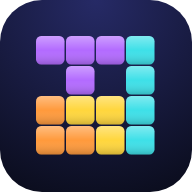
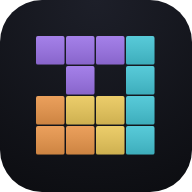
Refine visual style: flatter blocks, muted palette, typographic UI
Claude-Session: https://claude.ai/code/session_01THnj6gfweMZGaJmHyJPJxv

diff --git a/style.css b/style.css
@@ -1,15 +1,15 @@
 :root {
   color-scheme: dark;
-  --bg: #0a0c1b;
-  --panel: rgba(255, 255, 255, 0.035);
+  --bg: #0c0d11;
+  --panel: rgba(255, 255, 255, 0.02);
   --line: rgba(255, 255, 255, 0.08);
-  --text: #eef0ff;
-  --muted: #8b91bb;
-  --accent: #8a7dff;
-  --accent2: #3ee0e8;
+  --text: #ecedf2;
+  --muted: #7c7f8e;
+  --accent: #ecedf2;
+  --accent2: #45c4d4;
   --c: 30px;
   --gap: calc(var(--c) * 0.35);
-  --radius: calc(var(--c) * 0.28);
+  --radius: 6px;
 }
 
 * { box-sizing: border-box; margin: 0; padding: 0; }
@@ -30,9 +30,7 @@ html, body {
 
 body {
   background:
-    radial-gradient(110% 70% at 50% -15%, #20245a 0%, transparent 60%),
-    radial-gradient(70% 55% at 100% 110%, #2b1745 0%, transparent 65%),
-    radial-gradient(60% 50% at 0% 100%, #0f2a3d 0%, transparent 65%),
+    radial-gradient(90% 60% at 50% 0%, #171922 0%, transparent 70%),
     var(--bg);
 }
 
@@ -92,8 +90,8 @@ button { font: inherit; color: inherit; border: 0; background: none; cursor: poi
 
 .panel h2 {
   font-size: max(10px, calc(var(--c) * 0.3));
-  font-weight: 700;
-  letter-spacing: 0.16em;
+  font-weight: 600;
+  letter-spacing: 0.2em;
   text-transform: uppercase;
   color: var(--muted);
   margin-bottom: calc(var(--c) * 0.2);
@@ -114,16 +112,11 @@ canvas { display: block; }
 }
 .stat .v {
   font-size: max(15px, calc(var(--c) * 0.62));
-  font-weight: 700;
+  font-weight: 500;
   font-variant-numeric: tabular-nums;
-  letter-spacing: -0.01em;
+  letter-spacing: 0.01em;
 }
-.stat.score .v {
-  background: linear-gradient(90deg, #fff, #c9c4ff);
-  -webkit-background-clip: text;
-  background-clip: text;
-  color: transparent;
-}
+.stat.score .v { color: #fff; }
 
 #game.side #stats { padding-bottom: calc(var(--c) * 1.4); }
 #game.side #pause { position: absolute; left: calc(var(--c) * 0.2); bottom: calc(var(--c) * 0.2); }
@@ -157,20 +150,15 @@ canvas { display: block; }
 #board-wrap {
   position: relative;
   border: 1px solid rgba(255, 255, 255, 0.1);
-  border-radius: calc(var(--radius) * 0.6);
-  background: rgba(6, 8, 20, 0.72);
-  box-shadow:
-    0 0 0 1px rgba(0, 0, 0, 0.4),
-    0 20px 60px -20px rgba(0, 0, 0, 0.8),
-    0 0 80px -30px rgba(138, 125, 255, 0.45);
+  border-radius: 3px;
+  background: #07080b;
+  box-shadow: 0 24px 60px -24px rgba(0, 0, 0, 0.9);
   overflow: hidden;
   transition: box-shadow 0.4s;
 }
 #board-wrap.danger {
-  box-shadow:
-    0 0 0 1px rgba(0, 0, 0, 0.4),
-    0 20px 60px -20px rgba(0, 0, 0, 0.8),
-    0 0 70px -20px rgba(255, 70, 100, 0.65);
+  border-color: rgba(226, 87, 104, 0.55);
+  box-shadow: 0 24px 60px -24px rgba(0, 0, 0, 0.9), 0 0 40px -18px rgba(226, 87, 104, 0.6);
 }
 #board-wrap.bump { animation: bump 0.14s ease-out; }
 @keyframes bump {
@@ -184,19 +172,18 @@ canvas { display: block; }
   left: 0; right: 0; top: 30%;
   text-align: center;
   pointer-events: none;
-  font-weight: 800;
-  letter-spacing: 0.06em;
+  font-weight: 600;
+  letter-spacing: 0.22em;
   text-transform: uppercase;
-  text-shadow: 0 2px 18px rgba(0, 0, 0, 0.8);
+  text-shadow: 0 2px 16px rgba(0, 0, 0, 0.9);
   opacity: 0;
 }
 #popup.go { animation: pop 1.1s cubic-bezier(.2, .8, .2, 1) forwards; }
-#popup .big { display: block; font-size: calc(var(--c) * 0.85); background: linear-gradient(90deg, #fff, #b9b0ff 50%, #7fe9ef); -webkit-background-clip: text; background-clip: text; color: transparent; }
-#popup .small { display: block; font-size: calc(var(--c) * 0.42); color: #ffd36b; margin-top: 2px; }
+#popup .big { display: block; font-size: calc(var(--c) * 0.62); color: #fff; }
+#popup .small { display: block; font-size: calc(var(--c) * 0.32); color: var(--muted); margin-top: 4px; letter-spacing: 0.18em; }
 @keyframes pop {
-  0% { opacity: 0; transform: scale(0.7); }
-  15% { opacity: 1; transform: scale(1.06); }
-  25% { transform: scale(1); }
+  0% { opacity: 0; transform: translateY(calc(var(--c) * 0.3)); }
+  15% { opacity: 1; transform: translateY(0); }
   75% { opacity: 1; }
   100% { opacity: 0; transform: translateY(calc(var(--c) * -1.2)); }
 }
@@ -212,14 +199,14 @@ canvas { display: block; }
 #pad[hidden] { display: none; }
 #pad button {
   height: var(--pad-h, 64px);
-  border-radius: 16px;
-  background: rgba(255, 255, 255, 0.06);
+  border-radius: 10px;
+  background: rgba(255, 255, 255, 0.04);
   border: 1px solid var(--line);
   display: grid;
   place-items: center;
 }
-#pad button.on { background: rgba(138, 125, 255, 0.3); }
-#pad svg { width: 26px; height: 26px; fill: none; stroke: currentColor; stroke-width: 2.4; stroke-linecap: round; stroke-linejoin: round; }
+#pad button.on { background: rgba(255, 255, 255, 0.16); }
+#pad svg { width: 24px; height: 24px; fill: none; stroke: currentColor; stroke-width: 1.8; stroke-linecap: round; stroke-linejoin: round; }
 
 /* ---------- Overlay ---------- */
 #overlay {
@@ -228,7 +215,7 @@ canvas { display: block; }
   display: grid;
   place-items: center;
   padding: 20px;
-  background: rgba(6, 7, 18, 0.55);
+  background: rgba(8, 9, 12, 0.6);
   -webkit-backdrop-filter: blur(10px);
   backdrop-filter: blur(10px);
   opacity: 0;
@@ -242,9 +229,9 @@ canvas { display: block; }
   display: none;
   width: min(360px, 100%);
   padding: 28px 24px 22px;
-  border-radius: 22px;
-  background: linear-gradient(180deg, rgba(30, 33, 70, 0.92), rgba(16, 18, 40, 0.94));
-  border: 1px solid rgba(255, 255, 255, 0.1);
+  border-radius: 14px;
+  background: rgba(20, 21, 27, 0.94);
+  border: 1px solid rgba(255, 255, 255, 0.08);
   box-shadow: 0 30px 80px -20px rgba(0, 0, 0, 0.8);
   text-align: center;
   flex-direction: column;
@@ -254,46 +241,35 @@ canvas { display: block; }
 .card.show { display: flex; }
 @keyframes rise { from { opacity: 0; transform: translateY(12px) scale(0.98); } }
 
-.logo { display: flex; justify-content: center; gap: 6px; margin-bottom: 4px; }
-.logo i {
-  font-style: normal;
+.logo {
   font-size: 30px;
-  font-weight: 900;
-  width: 42px; height: 42px;
-  display: grid; place-items: center;
-  border-radius: 9px;
-  color: rgba(0, 0, 0, 0.55);
-  box-shadow: inset 0 3px 0 rgba(255, 255, 255, 0.35), inset 0 -3px 0 rgba(0, 0, 0, 0.18);
+  font-weight: 300;
+  letter-spacing: 0.42em;
+  text-indent: 0.42em;
+  text-transform: uppercase;
+  margin: 4px 0 2px;
 }
-.logo i:nth-child(1) { background: #ff5470; }
-.logo i:nth-child(2) { background: #ff9a3c; }
-.logo i:nth-child(3) { background: #ffd63d; }
-.logo i:nth-child(4) { background: #5fe07a; }
-.logo i:nth-child(5) { background: #3ee0e8; }
-.logo i:nth-child(6) { background: #b36bff; }
 
-.card h2 { font-size: 26px; font-weight: 800; letter-spacing: 0.02em; }
+.card h2 { font-size: 20px; font-weight: 400; letter-spacing: 0.3em; text-indent: 0.3em; text-transform: uppercase; }
 .sub { color: var(--muted); font-size: 15px; }
 .sub b { color: var(--text); font-variant-numeric: tabular-nums; }
-.final { font-size: 44px; font-weight: 800; font-variant-numeric: tabular-nums; }
-.new-best { color: #ffd36b; font-weight: 700; }
+.final { font-size: 44px; font-weight: 300; font-variant-numeric: tabular-nums; }
+.new-best { color: var(--text); font-weight: 600; letter-spacing: 0.16em; text-transform: uppercase; font-size: 13px; }
 
 .btn {
   padding: 13px 18px;
-  border-radius: 14px;
-  font-weight: 700;
-  font-size: 17px;
-  background: rgba(255, 255, 255, 0.07);
+  border-radius: 10px;
+  font-weight: 600;
+  font-size: 16px;
+  letter-spacing: 0.02em;
+  background: rgba(255, 255, 255, 0.05);
   border: 1px solid var(--line);
   transition: transform 0.1s, background 0.15s;
 }
 .btn:hover { background: rgba(255, 255, 255, 0.12); }
 .btn:active { transform: scale(0.97); }
-.btn.primary {
-  background: linear-gradient(135deg, #8a7dff, #5b8cff);
-  border-color: transparent;
-  box-shadow: 0 10px 30px -10px rgba(120, 110, 255, 0.8);
-}
+.btn.primary { background: #ecedf2; color: #0c0d11; border-color: transparent; }
+.btn.primary:hover { background: #fff; }
 .btn.ghost { background: none; border-color: transparent; color: var(--muted); padding: 8px; font-size: 15px; }
 
 .settings { display: grid; gap: 2px; margin: 4px 0; text-align: left; }
@@ -323,7 +299,8 @@ canvas { display: block; }
   background: #fff;
   transition: transform 0.2s;
 }
-.toggle input:checked + .sw { background: #7d72ff; }
+.toggle input:checked + .sw { background: #ecedf2; }
+.toggle input:checked + .sw::after { background: #0c0d11; }
 .toggle input:checked + .sw::after { transform: translateX(18px); }
 .toggle input:focus-visible + .sw { outline: 2px solid var(--accent2); outline-offset: 2px; }
 

diff --git a/game.js b/game.js
@@ -3,7 +3,7 @@
   // ---------- Constants ----------
   const COLS = 10, ROWS = 20, BUF = 3, H = ROWS + BUF;
   const TYPES = 'IJLOSTZ';
-  const COLORS = { I: '#3ee0e8', J: '#4f7bff', L: '#ff9a3c', O: '#ffd63d', S: '#5fe07a', T: '#b36bff', Z: '#ff5470' };
+  const COLORS = { I: '#45c4d4', J: '#5672e8', L: '#e8954a', O: '#e9c75a', S: '#62bf78', T: '#9a72e6', Z: '#e25768' };
   const SHAPES = {
     I: [[0, 0, 0, 0], [1, 1, 1, 1], [0, 0, 0, 0], [0, 0, 0, 0]],
     J: [[1, 0, 0], [1, 1, 1], [0, 0, 0]],
@@ -378,18 +378,20 @@
   }
 
   function drawBlock(ctx, x, y, s, color) {
-    const i = Math.max(0.5, s * 0.045), w = s - 2 * i, r = s * 0.17;
+    const gap = Math.max(1, s * 0.06), w = s - gap, x0 = x + gap / 2, y0 = y + gap / 2;
+    const r = Math.min(3, s * 0.08), edge = Math.max(1, s * 0.07);
     const g = ctx.createLinearGradient(x, y, x, y + s);
-    g.addColorStop(0, mix(color, 0.3));
-    g.addColorStop(0.5, color);
-    g.addColorStop(1, mix(color, -0.22));
+    g.addColorStop(0, mix(color, 0.1));
+    g.addColorStop(1, mix(color, -0.12));
     ctx.fillStyle = g;
-    rr(ctx, x + i, y + i, w, w, r); ctx.fill();
-    ctx.fillStyle = 'rgba(255,255,255,0.28)';
-    rr(ctx, x + i + s * 0.14, y + i + s * 0.09, w - s * 0.28, s * 0.16, s * 0.08); ctx.fill();
-    ctx.strokeStyle = 'rgba(255,255,255,0.16)';
-    ctx.lineWidth = Math.max(1, s * 0.035);
-    rr(ctx, x + i + ctx.lineWidth / 2, y + i + ctx.lineWidth / 2, w - ctx.lineWidth, w - ctx.lineWidth, r); ctx.stroke();
+    rr(ctx, x0, y0, w, w, r); ctx.fill();
+    ctx.save();
+    rr(ctx, x0, y0, w, w, r); ctx.clip();
+    ctx.fillStyle = 'rgba(255,255,255,0.22)';
+    ctx.fillRect(x0, y0, w, edge);
+    ctx.fillStyle = 'rgba(0,0,0,0.22)';
+    ctx.fillRect(x0, y0 + w - edge, w, edge);
+    ctx.restore();
   }
 
   function makeSprites() {
@@ -399,17 +401,19 @@
       const cv = document.createElement('canvas');
       cv.width = cv.height = px;
       const ctx = cv.getContext('2d');
-      drawBlock(ctx, 0, 0, px, t === 'X' ? '#5a5f80' : COLORS[t]);
+      drawBlock(ctx, 0, 0, px, t === 'X' ? '#3a3d4e' : COLORS[t]);
       sprites[t] = cv;
     }
     bgCanvas = document.createElement('canvas');
     bgCanvas.width = Math.round(COLS * c * dpr); bgCanvas.height = Math.round(ROWS * c * dpr);
     const g = bgCanvas.getContext('2d');
     g.scale(dpr, dpr);
-    g.fillStyle = 'rgba(255,255,255,0.028)';
-    for (let y = 0; y < ROWS; y++) for (let x = 0; x < COLS; x++) {
-      rr(g, x * c + c * 0.08, y * c + c * 0.08, c * 0.84, c * 0.84, c * 0.14); g.fill();
-    }
+    g.strokeStyle = 'rgba(255,255,255,0.045)';
+    g.lineWidth = 1 / dpr;
+    g.beginPath();
+    for (let x = 1; x < COLS; x++) { g.moveTo(x * c, 0); g.lineTo(x * c, ROWS * c); }
+    for (let y = 1; y < ROWS; y++) { g.moveTo(0, y * c); g.lineTo(COLS * c, y * c); }
+    g.stroke();
   }
 
   function setCanvas(cv, ctx, w, h) {
@@ -447,7 +451,7 @@
         ctx.drawImage(sprites[grey ? 'X' : v], x * c, (y - BUF) * c, c, c);
       }
       if (isClearing) {
-        ctx.fillStyle = `rgba(255,255,255,${0.55 * (1 - clearP)})`;
+        ctx.fillStyle = `rgba(255,255,255,${0.35 * (1 - clearP)})`;
         ctx.fillRect(0, (y - BUF) * c, W, c);
       }
     }
@@ -458,13 +462,15 @@
       if (settings.ghost) {
         const gy = ghostY(), col = COLORS[cur.t];
         if (gy !== cur.y) {
-          ctx.lineWidth = Math.max(1, c * 0.06);
-          ctx.strokeStyle = rgba(col, 0.55);
-          ctx.fillStyle = rgba(col, 0.09);
+          ctx.lineWidth = Math.max(1, Math.round(c * 0.05));
+          ctx.strokeStyle = rgba(col, 0.5);
+          ctx.fillStyle = rgba(col, 0.07);
+          const lw = ctx.lineWidth;
           for (const [cx, cy] of cells) {
             const yy = gy + cy - BUF; if (yy < 0) continue;
-            rr(ctx, (cur.x + cx) * c + c * 0.1, yy * c + c * 0.1, c * 0.8, c * 0.8, c * 0.14);
-            ctx.fill(); ctx.stroke();
+            const px = (cur.x + cx) * c, py = yy * c, pad = c * 0.03 + lw / 2;
+            ctx.fillRect(px + pad, py + pad, c - 2 * pad, c - 2 * pad);
+            ctx.strokeRect(px + pad, py + pad, c - 2 * pad, c - 2 * pad);
           }
         }
       }
@@ -482,26 +488,24 @@
       ctx.fillStyle = `rgba(255,255,255,${0.5 * (1 - f.t / 160)})`;
       for (const [x, y] of f.cells) {
         if (y < BUF) continue;
-        rr(ctx, x * c + c * 0.05, (y - BUF) * c + c * 0.05, c * 0.9, c * 0.9, c * 0.17); ctx.fill();
+        ctx.fillRect(x * c + c * 0.03, (y - BUF) * c + c * 0.03, c * 0.94, c * 0.94);
       }
     }
   }
 
-  function drawPiece(ctx, t, cx, cy, s, alpha = 1) {
+  function drawPiece(ctx, t, cx, cy, s, dim = false) {
     const cells = CELLS[t][0];
     const xs = cells.map(p => p[0]), ys = cells.map(p => p[1]);
     const minX = Math.min(...xs), maxX = Math.max(...xs), minY = Math.min(...ys), maxY = Math.max(...ys);
     const ox = cx - ((maxX - minX + 1) * s) / 2, oy = cy - ((maxY - minY + 1) * s) / 2;
-    ctx.globalAlpha = alpha;
-    for (const [x, y] of cells) drawBlock(ctx, ox + (x - minX) * s, oy + (y - minY) * s, s, COLORS[t]);
-    ctx.globalAlpha = 1;
+    for (const [x, y] of cells) drawBlock(ctx, ox + (x - minX) * s, oy + (y - minY) * s, s, dim ? '#3a3d4e' : COLORS[t]);
   }
 
   let holdDims, nextDims;
   function drawSide() {
     const [hw, hh, hs] = holdDims;
     hctx.clearRect(0, 0, hw, hh);
-    if (holdType) drawPiece(hctx, holdType, hw / 2, hh / 2, hs, holdUsed ? 0.35 : 1);
+    if (holdType) drawPiece(hctx, holdType, hw / 2, hh / 2, hs, holdUsed);
 
     const { w, h, slots } = nextDims;
     nctx.clearRect(0, 0, w, h);
@@ -560,8 +564,8 @@
       nextDims = { w, h: Math.round(c * 2.2 + c * 1.75 * 4), slots };
     } else {
       const s1 = Math.round(c * 0.5), s2 = Math.round(c * 0.38), h = Math.round(c * 1.25);
-      holdDims = [Math.round(c * 2.2), h, s1];
-      const first = c * 2.3, rest = c * 1.55;
+      holdDims = [Math.round(c * 2.0), h, s1];
+      const first = c * 2.1, rest = c * 1.45;
       const slots = [{ x: first / 2, y: h / 2, s: s1 }];
       for (let i = 0; i < 3; i++) slots.push({ x: first + rest * (i + 0.5), y: h / 2, s: s2 });
       nextDims = { w: Math.round(first + rest * 3), h, slots };

diff --git a/index.html b/index.html
@@ -4,7 +4,7 @@
 <meta charset="utf-8">
 <meta name="viewport" content="width=device-width,initial-scale=1,maximum-scale=1,user-scalable=no,viewport-fit=cover">
 <meta name="description" content="A fast, beautiful, offline-ready Tetris you can play anywhere.">
-<meta name="theme-color" content="#0a0c1b">
+<meta name="theme-color" content="#0c0d11">
 <meta name="mobile-web-app-capable" content="yes">
 <meta name="apple-mobile-web-app-capable" content="yes">
 <meta name="apple-mobile-web-app-status-bar-style" content="black-translucent">
@@ -44,7 +44,7 @@
 
   <div id="overlay" class="show">
     <div class="card" id="menu">
-      <h1 class="logo" aria-label="Tetris"><i>T</i><i>E</i><i>T</i><i>R</i><i>I</i><i>S</i></h1>
+      <h1 class="logo">Tetris</h1>
       <p class="sub">Best <b class="best-val">0</b></p>
       <button class="btn primary" data-act="start">Play</button>
       <div class="settings"></div>
